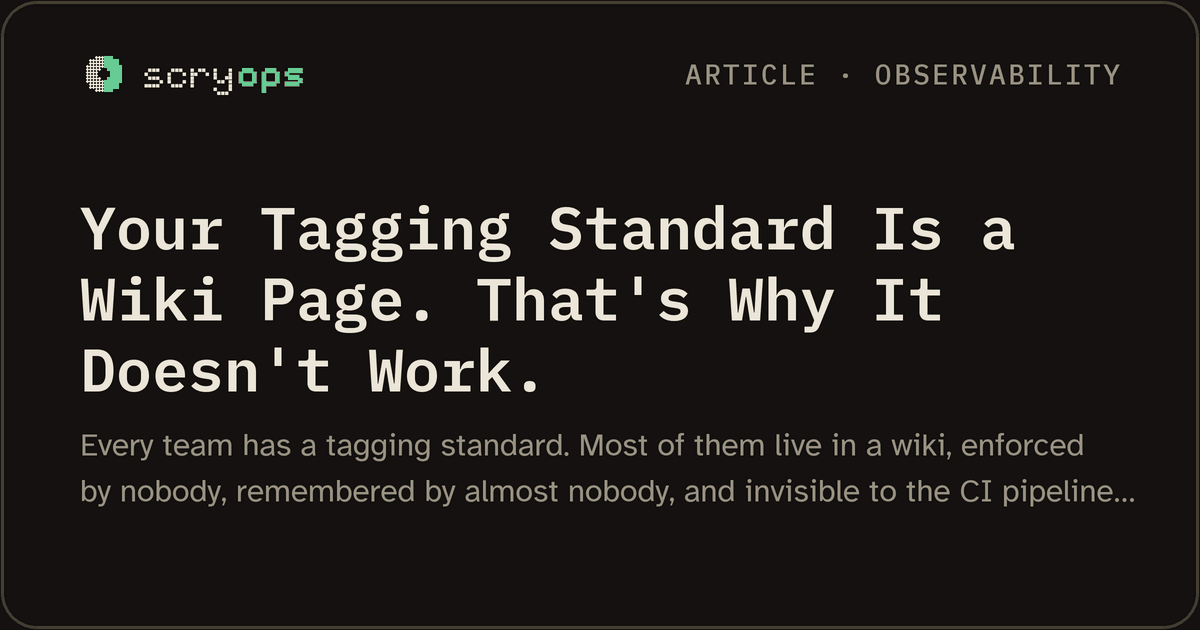
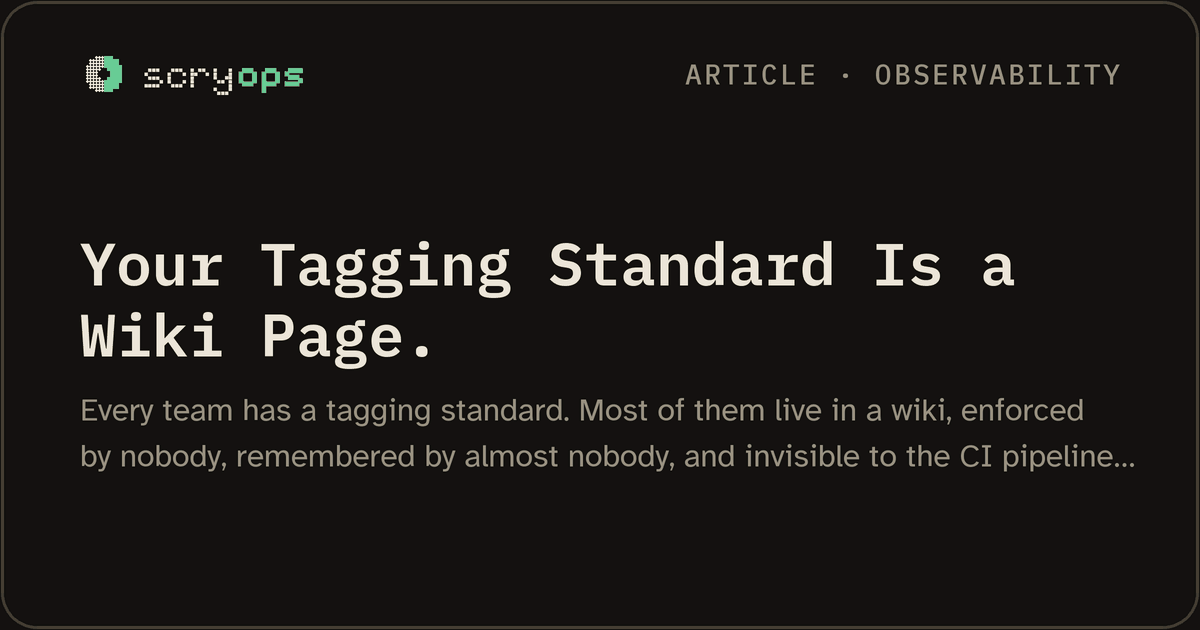
content: shorter card.title for the 13 titles that wrap to 3 lines
Uses #169's card.title on every published page whose title took three
lines on its share card. All 13 now fit in one or two lines at 60px,
leaving the excerpt room and reading faster at chat-bubble size.
og:title keeps each page's real title; og:image:alt follows card.title.

  observability-vs-monitoring        Observability vs. Monitoring
  opa-observability-governance       Your Tagging Standard Is a Wiki Page.
  what-is-observability-2-...        Observability 2.0 means prevention.
  compliance-observability           Observability Under Compliance
  data-masking-in-telemetry          Data Masking in Telemetry
  data-sovereignty-and-residency     Telemetry Data Sovereignty
  high-throughput-log-pipelines      Log Pipelines: Sampling, Collectors, the Wire
  log-context-enrichment             Log Context Enrichment
  otel-context-propagation           How Distributed Traces Stay Connected
  sli-selection-by-service-type      Choosing SLIs for Your Service
  instrument-java-service-...        OpenTelemetry for a Java Spring Boot Service
  profiling-vs-tracing (Q&A)         Profiling vs. tracing: what's the difference?
  synthetic-monitoring-vs-rum (Q&A)  Synthetic monitoring vs. RUM

high-throughput-log-pipelines avoids the "High-Throughput Logging:"
prefix it shares with high-throughput-logging. 13 cards re-rendered.

Changed region(s): [[0.0617, 0.3317, 0.925, 0.8143]]

diff --git a/content/guides/sli-selection-by-service-type.md b/content/guides/sli-selection-by-service-type.md
@@ -5,6 +5,8 @@ draft: false
 excerpt: "Availability and latency are the obvious SLIs. But they don't fit every service type. This guide provides SLI selection frameworks for APIs, data pipelines, batch jobs, storage systems, event-driven services, and more."
 readtime: 9
 tags: ["SLOs", "Reliability", "Observability", "Metrics"]
+card:
+  title: "Choosing SLIs for Your Service"
 ---
 
 Availability and latency are the SLIs everyone reaches for first, and for a request-driven API they're the right answer. Then you try them on a nightly batch job and they stop making sense. A batch job has no requests. A Kafka consumer has no response time anyone waits on. A model server can answer every request in 40 ms while serving predictions from a model that went stale last month.

diff --git a/content/howtos/instrument-java-service-opentelemetry.md b/content/howtos/instrument-java-service-opentelemetry.md
@@ -5,6 +5,8 @@ draft: false
 excerpt: "Instrument a Spring Boot service with the OpenTelemetry Java agent or the Spring Boot starter: traces, metrics and logs with no code, then your own spans and metrics, the Micrometer bridge and log correlation. All verified against a local Collector."
 readtime: 7
 tags: ["OpenTelemetry", "Tracing", "Observability", "How-to"]
+card:
+  title: "OpenTelemetry for a Java Spring Boot Service"
 ---
 
 Java has the most mature zero-code OpenTelemetry story of any runtime. Attach one agent jar to the JVM and a Spring Boot service exports traces, metrics and logs with no code changes at all. This guide sets that up, covers the Spring Boot starter for when an agent isn't an option, adds your own spans and metrics, and checks what arrives.

diff --git a/content/guides/otel-context-propagation.md b/content/guides/otel-context-propagation.md
@@ -5,6 +5,8 @@ draft: false
 excerpt: "A distributed trace is only as complete as its weakest propagation link. One hop that drops the context and the trace splits in two. W3C Trace Context and Baggage, the propagator settings that matter, and the places context gets lost — between services and inside them — in .NET, Java, Go, Python and Node."
 readtime: 11
 tags: ["OpenTelemetry", "Tracing", "Observability", "Best Practices"]
+card:
+  title: "How Distributed Traces Stay Connected"
 ---
 
 A distributed trace is not stored in one place. It is assembled from spans emitted by dozens of services, each running independently. The only thing connecting them is a trace ID, passed from service to service in HTTP headers, message metadata or gRPC metadata.

diff --git a/content/guides/compliance-observability.md b/content/guides/compliance-observability.md
@@ -5,6 +5,8 @@ draft: false
 excerpt: "Regulated industries need observability too. A guide to building telemetry pipelines that satisfy GDPR, HIPAA, SOC 2, and PCI DSS requirements — covering data minimisation, retention mandates, audit trails, and what each framework actually requires."
 readtime: 10
 tags: ["Compliance", "Privacy", "GDPR", "Security", "Observability"]
+card:
+  title: "Observability Under Compliance"
 ---
 
 Four frameworks, four vocabularies, one pipeline. GDPR calls it a lawful basis. HIPAA calls it minimum necessary. SOC 2 calls it a Trust Services Criterion. PCI DSS calls it Requirement 10. They are asking your telemetry pipeline different questions, and the answers are mostly the same six or seven engineering decisions.

diff --git a/content/guides/log-context-enrichment.md b/content/guides/log-context-enrichment.md
@@ -5,6 +5,8 @@ draft: false
 excerpt: "Enrichment turns isolated log records into connected business events. Here is the architecture that makes it work — static resource attributes, background-refreshed caches, and per-request scopes — without taxing the request path."
 readtime: 8
 tags: ["Logs", "Observability", "OpenTelemetry", "Structured Logging", "Best Practices"]
+card:
+  title: "Log Context Enrichment"
 ---
 
 A log line that reads `"Payment failed"` tells you something went wrong. The same line with `customer.tier=enterprise`, `cloud.region=eu-west-1` and `retry.count=3` tells you who is hurting, where, and how hard the system already tried. Enrichment is the difference between knowing an event occurred and knowing what it means.

diff --git a/content/guides/high-throughput-log-pipelines.md b/content/guides/high-throughput-log-pipelines.md
@@ -9,6 +9,8 @@ tags: ["Logs", "Sampling", "OpenTelemetry", "Collector", "OTLP"]
 series: "High-throughput logging"
 series_part: 2
 series_title: "Sampling, Collectors, and the wire"
+card:
+  title: "Log Pipelines: Sampling, Collectors, the Wire"
 ---
 
 A fast hot path only moves the problem downstream. Once the log call is an in-memory enqueue ([Keeping the Hot Path Fast](/guides/high-throughput-logging/) covers that half), 1.5 million events per second still have to be filtered, batched, serialized, and shipped — and every one of those steps has a default that was tuned for moderate scale. The exporter protocol, sampling policy, batch cadence, and wire format all need explicit redesign for the load.

diff --git a/content/guides/data-masking-in-telemetry.md b/content/guides/data-masking-in-telemetry.md
@@ -5,6 +5,8 @@ draft: false
 excerpt: "Telemetry data is just as risky for PII as any database. Here's how to turn sensitive fields into safe, useful signals: hashing, tokenising, coarsening, and picking the right tool for the job."
 readtime: 8
 tags: ["Privacy", "OpenTelemetry", "Security", "Observability", "Collector"]
+card:
+  title: "Data Masking in Telemetry"
 ---
 
 This guide dives straight into the how-to of transforming your data. If you're wondering which fields are trouble or what compliance wants from you, check out [Your Traces Are Leaking User Data](/guides/pii-in-telemetry/). This is about how to actually make your data safe.

diff --git a/content/guides/data-sovereignty-and-residency.md b/content/guides/data-sovereignty-and-residency.md
@@ -5,6 +5,8 @@ draft: false
 excerpt: "A system that spans continents produces telemetry that spans legal jurisdictions. Here's how to keep traces and logs where the law wants them, and still see your whole system."
 readtime: 11
 tags: ["Compliance", "Privacy", "GDPR", "Multi-Cloud", "OpenTelemetry", "Collector", "Observability"]
+card:
+  title: "Telemetry Data Sovereignty"
 ---
 
 Your users are in Frankfurt. Your trace backend is in Virginia. Every span that carries a user ID, an IP address or an email is personal data, and every one of them just crossed an ocean.

diff --git a/content/articles/observability-vs-monitoring.md b/content/articles/observability-vs-monitoring.md
@@ -5,6 +5,8 @@ draft: false
 excerpt: "Monitoring tells you when something you predicted goes wrong. Observability lets you work out what's happening when it's something you didn't. You need both, and the gap between them is where incidents drag on."
 readtime: 6
 tags: ["Observability", "Monitoring", "Philosophy", "Cost"]
+card:
+  title: "Observability vs. Monitoring"
 ---
 
 People use the two words interchangeably. They aren't the same thing, and the difference isn't semantic. It decides which questions you can answer when something breaks at 2am.

diff --git a/content/qa/synthetic-monitoring-vs-rum.md b/content/qa/synthetic-monitoring-vs-rum.md
@@ -6,6 +6,8 @@ answer: "Synthetic monitoring runs scripted user journeys on a schedule, so it c
 excerpt: "Synthetic monitoring runs scripted tests on a schedule. RUM captures what real users actually experience. They answer different questions, and you need both."
 readtime: 3
 tags: ["Observability", "RUM", "Monitoring", "Reliability"]
+card:
+  title: "Synthetic monitoring vs. RUM"
 ---
 
 **Q: I keep seeing "synthetic monitoring" alongside RUM. Are they the same thing? When do I need each one?**

diff --git a/content/articles/opa-observability-governance.md b/content/articles/opa-observability-governance.md
@@ -5,6 +5,8 @@ draft: false
 excerpt: "Every team has a tagging standard. Most of them live in a wiki, enforced by nobody, remembered by almost nobody, and invisible to the CI pipeline. Open Policy Agent fixes the root cause."
 readtime: 7
 tags: ["Observability", "Compliance", "CI/CD", "Best Practices", "Operations"]
+card:
+  title: "Your Tagging Standard Is a Wiki Page."
 ---
 
 Every observability platform eventually drowns in its own tags.

diff --git a/content/qa/profiling-vs-tracing.md b/content/qa/profiling-vs-tracing.md
@@ -6,6 +6,8 @@ answer: "Tracing tells you which path a request took and how long each hop took.
 excerpt: "Tracing tells you which path a request took and how long each hop took. Profiling tells you what your CPU was actually doing during those hops. They're complementary — use both."
 readtime: 2
 tags: ["Profiling", "Tracing"]
+card:
+  title: "Profiling vs. tracing: what's the difference?"
 ---
 
 {{< obs-profiling-vs-tracing >}}
